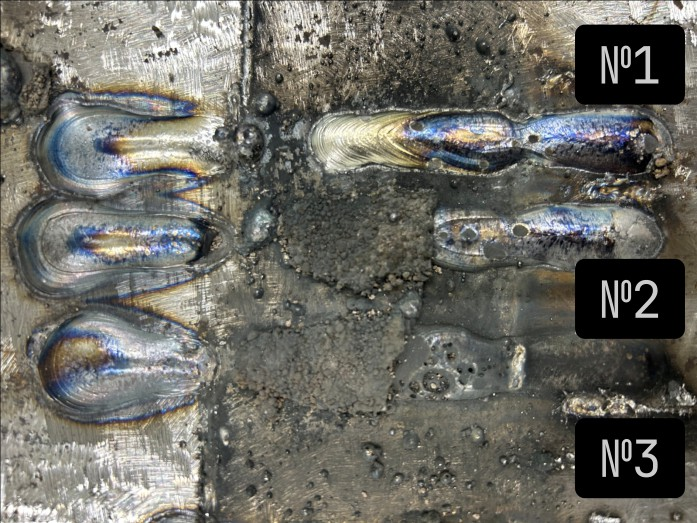
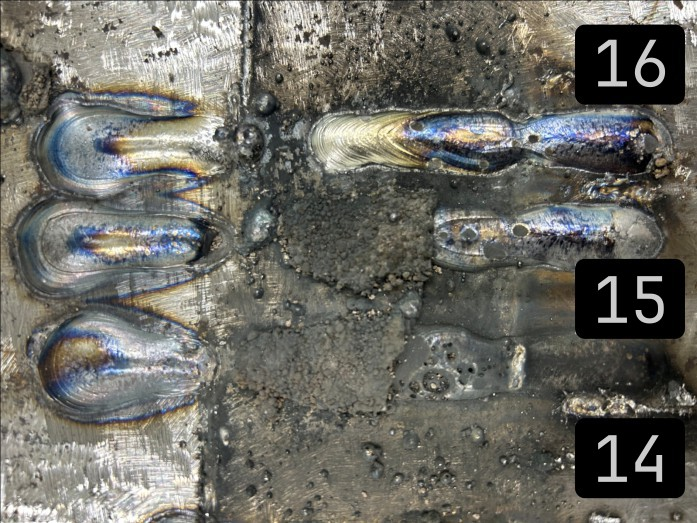
fix: labels in saw-camera/2026/04

Changed region(s): [[0.8436, 0.0612, 0.9641, 0.1836], [0.8436, 0.5201, 0.9641, 0.6424], [0.8436, 0.826, 0.9641, 0.9484]]

diff --git a/saw-camera/2026/04.md b/saw-camera/2026/04.md
@@ -6,6 +6,7 @@ title: SAW — Апрель 2026
 
 - *газ: нет*
 - *туннель: открытый*
+- *номер образца: 14*
 - толщина пластины: 10 мм
 - ток: 500А
 - напряжение: 30В
@@ -19,6 +20,7 @@ title: SAW — Апрель 2026
 
 - *газ: аргон*
 - *туннель: открытый*
+- *номер образца: 15*
 - толщина пластины: 10 мм
 - ток: 500А
 - напряжение: 30В
@@ -32,6 +34,7 @@ title: SAW — Апрель 2026
 
 - *газ: аргон*
 - *туннель: закрыт сзади*
+- *номер образца: 16*
 - толщина пластины: 10 мм
 - ток: 500А
 - напряжение: 30В
